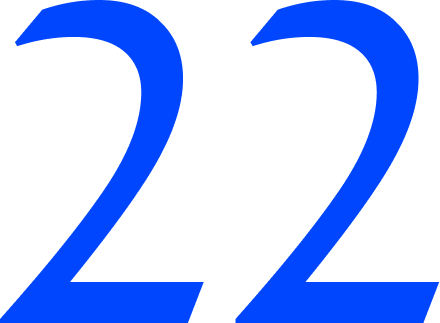
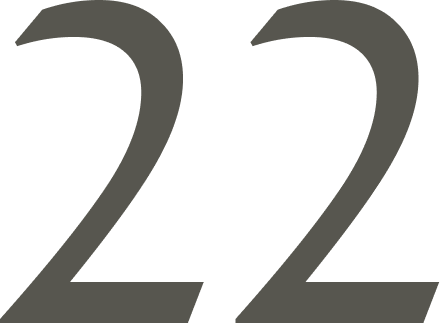
css changes

diff --git a/assets/css/style.css b/assets/css/style.css
@@ -49,7 +49,7 @@ html, body {
 }
 * {
     font-family: 'kermes-Light', 'Cairo', 'Montserrat', 'Hind Madurai', sans-serif;
-    color: #0046FF
+    color: #57564F
 }
 h1,h2,h3,h4,h5,h6 {
     margin: 0;
@@ -74,7 +74,7 @@ body {
     align-items: center;
     position: relative;
     overflow: hidden;
-    background-color: #0046FF10;
+    background-color: #57564F10;
 }
 /* Background with gap top & bottom */
 body::before {
@@ -113,12 +113,12 @@ body::before {
     width: 40px;
     height: 40px;
     /* border-radius: 50%;
-    border:#0046FF10 1px solid; */
+    border:#57564F10 1px solid; */
 }
 .logo {
     font-size: 26px;
     font-weight: 700;
-    color: #0046FF;
+    color: #57564F;
     position: relative;
     margin-top: -6px;
     font-family: 'kermes-Bold', 'Cairo', 'Montserrat', 'Hind Madurai', sans-serif;
@@ -126,24 +126,24 @@ body::before {
 .lang-toggle {
     padding: 8px 12px;
     border-radius: 6px;
-    border: 1px solid #0046FF20;
+    border: 1px solid #57564F20;
     background: white;
     cursor: pointer;
     font-weight: bold;
-    color: #0046FF;
+    color: #57564F;
     min-width: 72px;
 }
 [lang="en"] .lang-toggle {
     padding: 6px 12px 10px 12px !important
 }
 .lang-toggle:hover {
-    background: #0046FF;
+    background: #57564F;
     color: white;
-    border: 1px solid #0046FF;
+    border: 1px solid #57564F;
 }
 .lang-toggle:active {
     background: white;
-    color: #0046FF;
+    color: #57564F;
 }
 /* Coming Soon card */
 .coming-soon-card {
@@ -156,7 +156,7 @@ body::before {
     text-align: center;
     box-shadow: 0 6px 20px rgba(0,0,0,0.2);
     max-width: 440px;
-    color: #0046FF;
+    color: #57564F;
     display: flex;
     flex-direction: column;
     gap: 10px;
@@ -187,17 +187,17 @@ body::before {
     font-size: 28px;
     line-height: 37px;
     font-weight: 700;
-    color: #0046FF;
+    color: #57564F;
     margin: 0 0 24px 0;
 }
 .coming-soon-card p {
     font-size: 18px;
     line-height: 1.5;
-    color: #0046FF;
+    color: #57564F;
     margin: 0 0 10px 0;
 }
 .coming-soon-card span {
-    color: #0046FF;
+    color: #57564F;
 }
 /* Bottom audio player */
 .bottom-player {
@@ -217,7 +217,7 @@ body::before {
 
 .disclaimer {
    text-align: 
-   center; color: #0046FF; 
+   center; color: #57564F; 
    font-size: 12px !important;
    font-weight: 300;
 }
